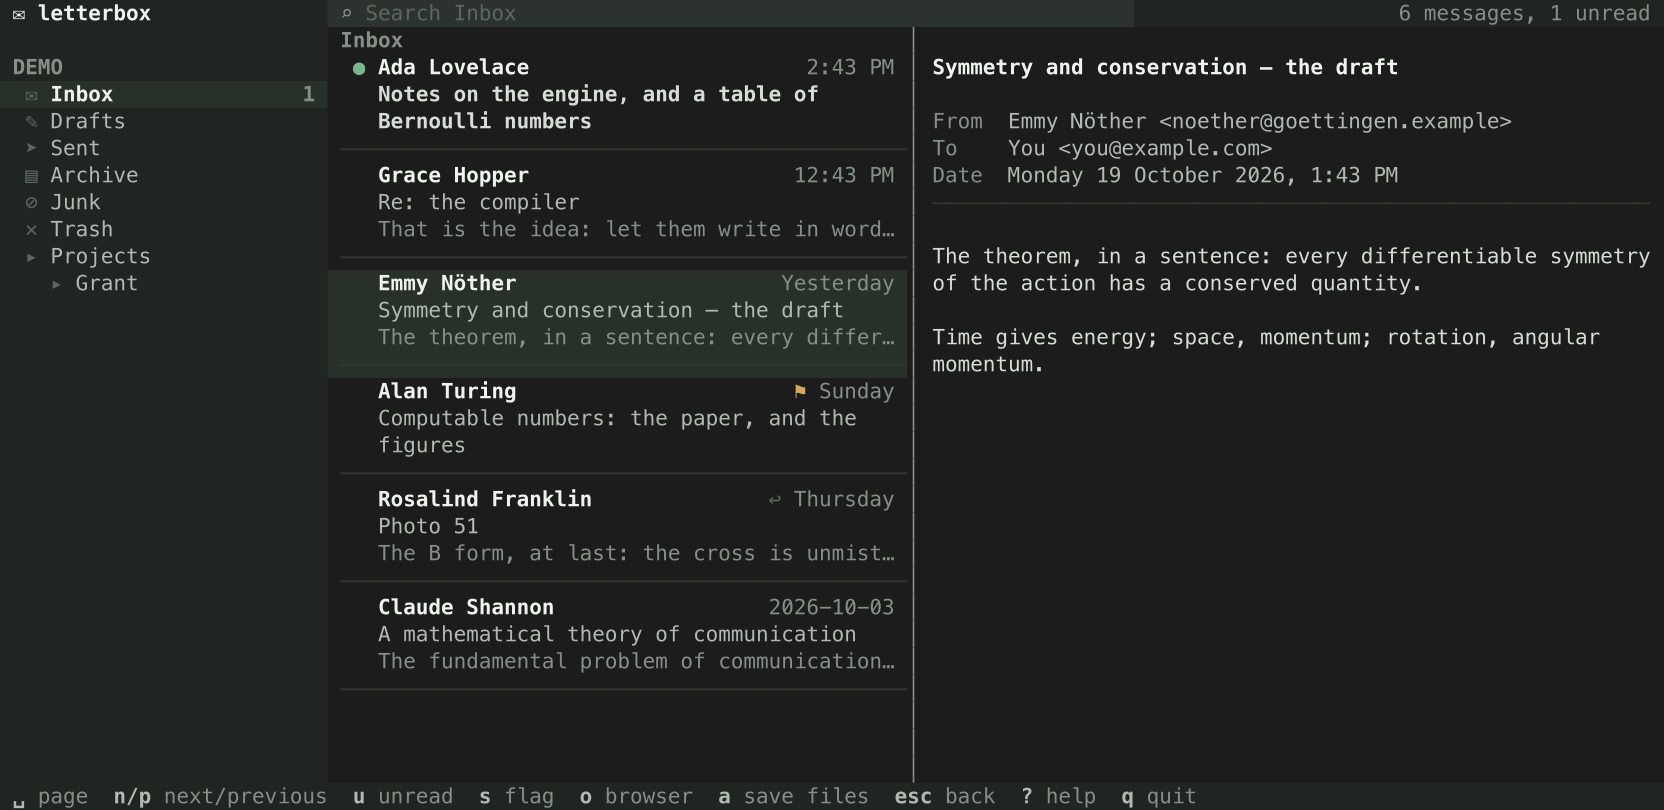
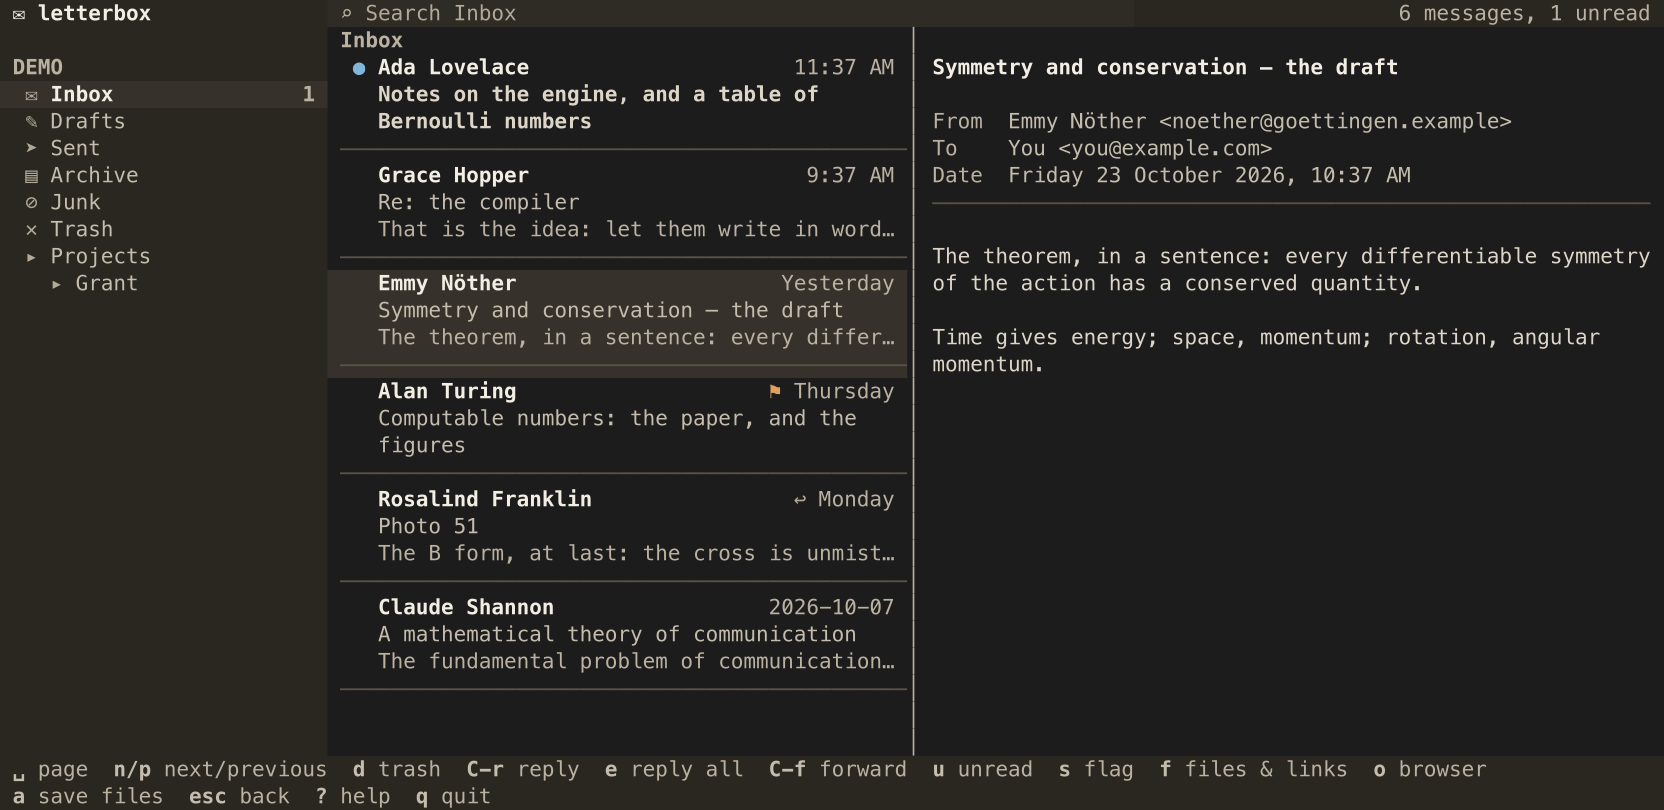
Warm paper for the light theme, and colours that every reader can tell apart
The light theme is dark ink on an off-white page; the dark theme keeps
the terminal's own ground in the same warm grays. Unread is blue and a
flag orange, a pair the common colour blindnesses still tell apart, and
the accounts' colours keep clear of both. Every text colour now reads
at 4.5:1 or more on each ground it is drawn on: the page, the sidebar,
the search box and both highlights. Previews, dates and the flag did
not before. The picked row, the rule under it and the sidebar are told
apart from one another, and a button's label has an ink of its own,
readable on the accent in both themes.

Tests measure each colour's contrast on each ground, and the hues of
unread, a flag and the accounts. The screenshots are drawn again.

diff --git a/src/theme.rs b/src/theme.rs
@@ -1,10 +1,19 @@
-//! The screen's colours: sage grays, in steps from the text down to the
-//! rules, with green for what is unread and orange for a flag; and muted
-//! colours to tell accounts apart by, where their messages are together. `light` is
-//! painted whatever the terminal's colours; `dark` keeps the terminal's own
-//! background, as an Emacs buffer has it.
+//! The screen's colours: warm grays on paper, in steps from the text down
+//! to the rules, with blue for what is unread and orange for a flag, which
+//! the common colour blindnesses still tell apart; and colours to tell
+//! accounts apart by, where their messages are together. Each text colour
+//! is 4.5:1 or more on every ground it is drawn on, and the accounts'
+//! colours keep clear of both. `light` is painted whatever the terminal's
+//! colours; `dark` keeps the terminal's own background, as an Emacs buffer
+//! has it.
 
 use ratatui::style::Color;
+
+/// What `dark`'s page, the terminal's own, is taken to be where a colour
+/// is needed for it, as in a picture of the screen: the near-black most
+/// terminals have, and their light gray text.
+pub const TERMINAL_DARK: (u8, u8, u8) = (28, 28, 28);
+pub const TERMINAL_DARK_TEXT: (u8, u8, u8) = (222, 222, 222);
 
 #[derive(Clone, Copy, Debug, Default, PartialEq, clap::ValueEnum)]
 pub enum Name {
@@ -39,6 +48,8 @@ pub struct Theme {
     pub row: Color,
     /// A message not yet read, and where the focus is.
     pub accent: Color,
+    /// A label on the accent, as the button pressed with ⏎.
+    pub on_accent: Color,
     pub flag: Color,
     /// What went wrong, as an account that would not sign in.
     pub error: Color,
@@ -49,53 +60,60 @@ pub struct Theme {
 impl Theme {
     /// The account's colour: the accounts', in turn.
     pub fn account(&self, account: usize) -> Color {
-        self.accounts[account % self.accounts.len()]
+        let all = self.accounts();
+        all[account % all.len()]
+    }
+
+    pub fn accounts(&self) -> &[Color] {
+        &self.accounts
     }
 
     pub fn of(name: Name) -> Theme {
         match name {
             Name::Light => Theme {
-                page: Color::Rgb(251, 252, 250),
-                side: Color::Rgb(235, 239, 234),
-                field: Color::Rgb(255, 255, 255),
-                title: Color::Rgb(22, 26, 23),
-                text: Color::Rgb(38, 43, 39),
-                soft: Color::Rgb(86, 96, 88),
-                dim: Color::Rgb(134, 145, 136),
-                faint: Color::Rgb(176, 187, 178),
-                rule: Color::Rgb(223, 229, 222),
-                focus: Color::Rgb(206, 220, 205),
-                row: Color::Rgb(227, 234, 226),
-                accent: Color::Rgb(62, 128, 86),
-                flag: Color::Rgb(196, 118, 40),
-                error: Color::Rgb(176, 64, 58),
+                page: Color::Rgb(251, 248, 241),
+                side: Color::Rgb(240, 234, 220),
+                field: Color::Rgb(255, 253, 248),
+                title: Color::Rgb(29, 26, 21),
+                text: Color::Rgb(43, 39, 32),
+                soft: Color::Rgb(64, 58, 49),
+                dim: Color::Rgb(78, 71, 60),
+                faint: Color::Rgb(90, 82, 70),
+                rule: Color::Rgb(200, 188, 160),
+                focus: Color::Rgb(216, 203, 166),
+                row: Color::Rgb(230, 221, 198),
+                accent: Color::Rgb(22, 86, 118),
+                on_accent: Color::Rgb(255, 253, 248),
+                flag: Color::Rgb(136, 64, 0),
+                error: Color::Rgb(156, 40, 36),
                 accounts: [
-                    Color::Rgb(58, 106, 156),
-                    Color::Rgb(134, 78, 128),
-                    Color::Rgb(36, 124, 124),
-                    Color::Rgb(140, 112, 40),
+                    Color::Rgb(128, 58, 118),
+                    Color::Rgb(22, 92, 74),
+                    Color::Rgb(86, 72, 152),
+                    Color::Rgb(80, 84, 16),
                 ],
             },
             Name::Dark => Theme {
                 page: Color::Reset,
-                side: Color::Rgb(32, 37, 33),
-                field: Color::Rgb(44, 51, 46),
-                title: Color::Rgb(238, 243, 238),
-                text: Color::Rgb(214, 220, 214),
-                soft: Color::Rgb(176, 186, 177),
-                dim: Color::Rgb(132, 144, 134),
-                faint: Color::Rgb(92, 104, 94),
-                rule: Color::Rgb(48, 56, 50),
-                focus: Color::Rgb(56, 72, 59),
-                row: Color::Rgb(40, 48, 42),
-                accent: Color::Rgb(122, 182, 136),
-                flag: Color::Rgb(214, 170, 92),
-                error: Color::Rgb(214, 112, 100),
+                side: Color::Rgb(42, 39, 33),
+                field: Color::Rgb(47, 43, 37),
+                title: Color::Rgb(243, 238, 228),
+                text: Color::Rgb(221, 214, 200),
+                soft: Color::Rgb(196, 188, 172),
+                dim: Color::Rgb(186, 177, 161),
+                faint: Color::Rgb(178, 169, 153),
+                rule: Color::Rgb(92, 84, 71),
+                focus: Color::Rgb(68, 61, 50),
+                row: Color::Rgb(54, 49, 42),
+                accent: Color::Rgb(127, 182, 217),
+                on_accent: Color::Rgb(24, 22, 18),
+                flag: Color::Rgb(224, 160, 96),
+                error: Color::Rgb(238, 150, 140),
                 accounts: [
-                    Color::Rgb(128, 168, 214),
-                    Color::Rgb(198, 148, 192),
-                    Color::Rgb(108, 188, 188),
-                    Color::Rgb(206, 182, 108),
+                    Color::Rgb(212, 156, 196),
+                    Color::Rgb(124, 196, 174),
+                    Color::Rgb(178, 166, 232),
+                    Color::Rgb(178, 196, 110),
                 ],
             },
         }

diff --git a/src/tests.rs b/src/tests.rs
@@ -3094,3 +3094,134 @@ fn a_narrow_foot_leaves_hints_out_but_help_and_quit() {
     assert!(lines[lines.len() - 3].contains("Compose"), "{screen}");
     assert!(lines[lines.len() - 2].contains("send"), "{screen}");
 }
+
+// ---- the colours ----
+
+/// WCAG's contrast of two colours, 1 to 21; the terminal's own dark
+/// ground as the theme takes it.
+fn contrast(a: ratatui::style::Color, b: ratatui::style::Color) -> f64 {
+    use ratatui::style::Color;
+    let luminance = |c: Color| {
+        let (r, g, b) = match c {
+            Color::Rgb(r, g, b) => (r, g, b),
+            Color::Reset => crate::theme::TERMINAL_DARK,
+            other => panic!("{other:?} is not a colour to measure"),
+        };
+        let lin = |v: u8| {
+            let v = f64::from(v) / 255.0;
+            if v <= 0.04045 {
+                v / 12.92
+            } else {
+                ((v + 0.055) / 1.055).powf(2.4)
+            }
+        };
+        0.2126 * lin(r) + 0.7152 * lin(g) + 0.0722 * lin(b)
+    };
+    let (x, y) = (luminance(a), luminance(b));
+    (x.max(y) + 0.05) / (x.min(y) + 0.05)
+}
+
+#[test]
+fn every_colour_reads_on_every_ground_it_is_drawn_on() {
+    use crate::theme::{Name, Theme};
+    use clap::ValueEnum;
+    for &name in Name::value_variants() {
+        let t = Theme::of(name);
+        let accounts = t.accounts().iter().map(|&c| ("account", c, 4.5));
+        let inks = [
+            ("title", t.title, 7.0),
+            ("text", t.text, 7.0),
+            ("soft", t.soft, 4.5),
+            ("dim", t.dim, 4.5),
+            // Signatures and notes are faint too: text, not only icons.
+            ("faint", t.faint, 4.5),
+            ("accent", t.accent, 4.5),
+            ("flag", t.flag, 4.5),
+            ("error", t.error, 4.5),
+        ];
+        let grounds = [
+            ("page", t.page),
+            ("side", t.side),
+            ("field", t.field),
+            ("focus", t.focus),
+            ("row", t.row),
+        ];
+        for (ink, colour, need) in inks.into_iter().chain(accounts) {
+            for (ground, behind) in grounds {
+                let got = contrast(colour, behind);
+                assert!(
+                    got >= need,
+                    "{name:?}: {ink} on {ground} is {got:.1}:1, under {need}:1"
+                );
+            }
+        }
+        // Labels drawn on a colour: the button pressed with ⏎, and the
+        // mode line's name of the message being written.
+        for (what, ink, behind) in [
+            ("a button", t.on_accent, t.accent),
+            ("Compose", t.side, t.title),
+        ] {
+            let got = contrast(ink, behind);
+            assert!(got >= 4.5, "{name:?}: {what} reads {got:.1}:1");
+        }
+        // Each step down reads less than the one above it.
+        let steps = [t.title, t.text, t.soft, t.dim, t.faint].map(|c| contrast(c, t.page));
+        assert!(steps.is_sorted_by(|a, b| a > b), "{name:?}: {steps:?}");
+        // Grounds that must be told apart: the panes, the picked row in
+        // the pane with the focus and in the others, and a rule under it.
+        for (what, a, b) in [
+            ("side and page", t.side, t.page),
+            ("side and row", t.side, t.row),
+            ("focus and row", t.focus, t.row),
+            ("rule and focus", t.rule, t.focus),
+            ("rule and page", t.rule, t.page),
+        ] {
+            let got = contrast(a, b);
+            assert!(got >= 1.12, "{name:?}: {what} are {got:.2}:1 apart");
+        }
+    }
+}
+
+#[test]
+fn unread_a_flag_and_the_accounts_are_told_apart_by_hue() {
+    // Blue for unread, orange for a flag, as every common colour blindness
+    // tells them apart; the accounts in neither.
+    use crate::theme::{Name, Theme};
+    use clap::ValueEnum;
+    use ratatui::style::Color;
+    let hue = |c: Color| {
+        let Color::Rgb(r, g, b) = c else {
+            panic!("{c:?} is not a colour");
+        };
+        let (r, g, b) = (f64::from(r), f64::from(g), f64::from(b));
+        let (max, min) = (r.max(g).max(b), r.min(g).min(b));
+        let h = if max == r {
+            (g - b) / (max - min)
+        } else if max == g {
+            2.0 + (b - r) / (max - min)
+        } else {
+            4.0 + (r - g) / (max - min)
+        };
+        (h * 60.0).rem_euclid(360.0)
+    };
+    let apart = |a: f64, b: f64| {
+        let d = (a - b).abs();
+        d.min(360.0 - d)
+    };
+    for &name in Name::value_variants() {
+        let t = Theme::of(name);
+        let (unread, flag) = (hue(t.accent), hue(t.flag));
+        assert!(
+            (190.0..230.0).contains(&unread),
+            "{name:?}: unread {unread}"
+        );
+        assert!((20.0..40.0).contains(&flag), "{name:?}: flag {flag}");
+        for (i, &c) in t.accounts().iter().enumerate() {
+            let h = hue(c);
+            for (what, other) in [("unread", unread), ("flag", flag)] {
+                let d = apart(h, other);
+                assert!(d >= 30.0, "{name:?}: account {i} is {d} from {what}");
+            }
+        }
+    }
+}

diff --git a/src/app.rs b/src/app.rs
@@ -3229,14 +3229,14 @@ pub fn screen_svg(app: &mut App, width: u16, height: u16) -> String {
             Color::Rgb(r, g, b) => (r, g, b),
             Color::Reset if bg => {
                 if dark {
-                    (28, 28, 28)
+                    theme::TERMINAL_DARK
                 } else {
                     (255, 255, 255)
                 }
             }
             Color::Reset => {
                 if dark {
-                    (222, 222, 222)
+                    theme::TERMINAL_DARK_TEXT
                 } else {
                     (40, 40, 40)
                 }

diff --git a/src/ui.rs b/src/ui.rs
@@ -142,7 +142,7 @@ fn buttons(t: &Theme, labels: &[(&str, Button)]) -> (Line<'static>, Vec<(u16, u1
         let text = format!(" {label} ");
         let w = text.width() as u16;
         let style = if i == 0 {
-            Style::new().fg(t.page).bg(t.accent).bold()
+            Style::new().fg(t.on_accent).bg(t.accent).bold()
         } else {
             Style::new().fg(t.text).bg(t.focus)
         };
